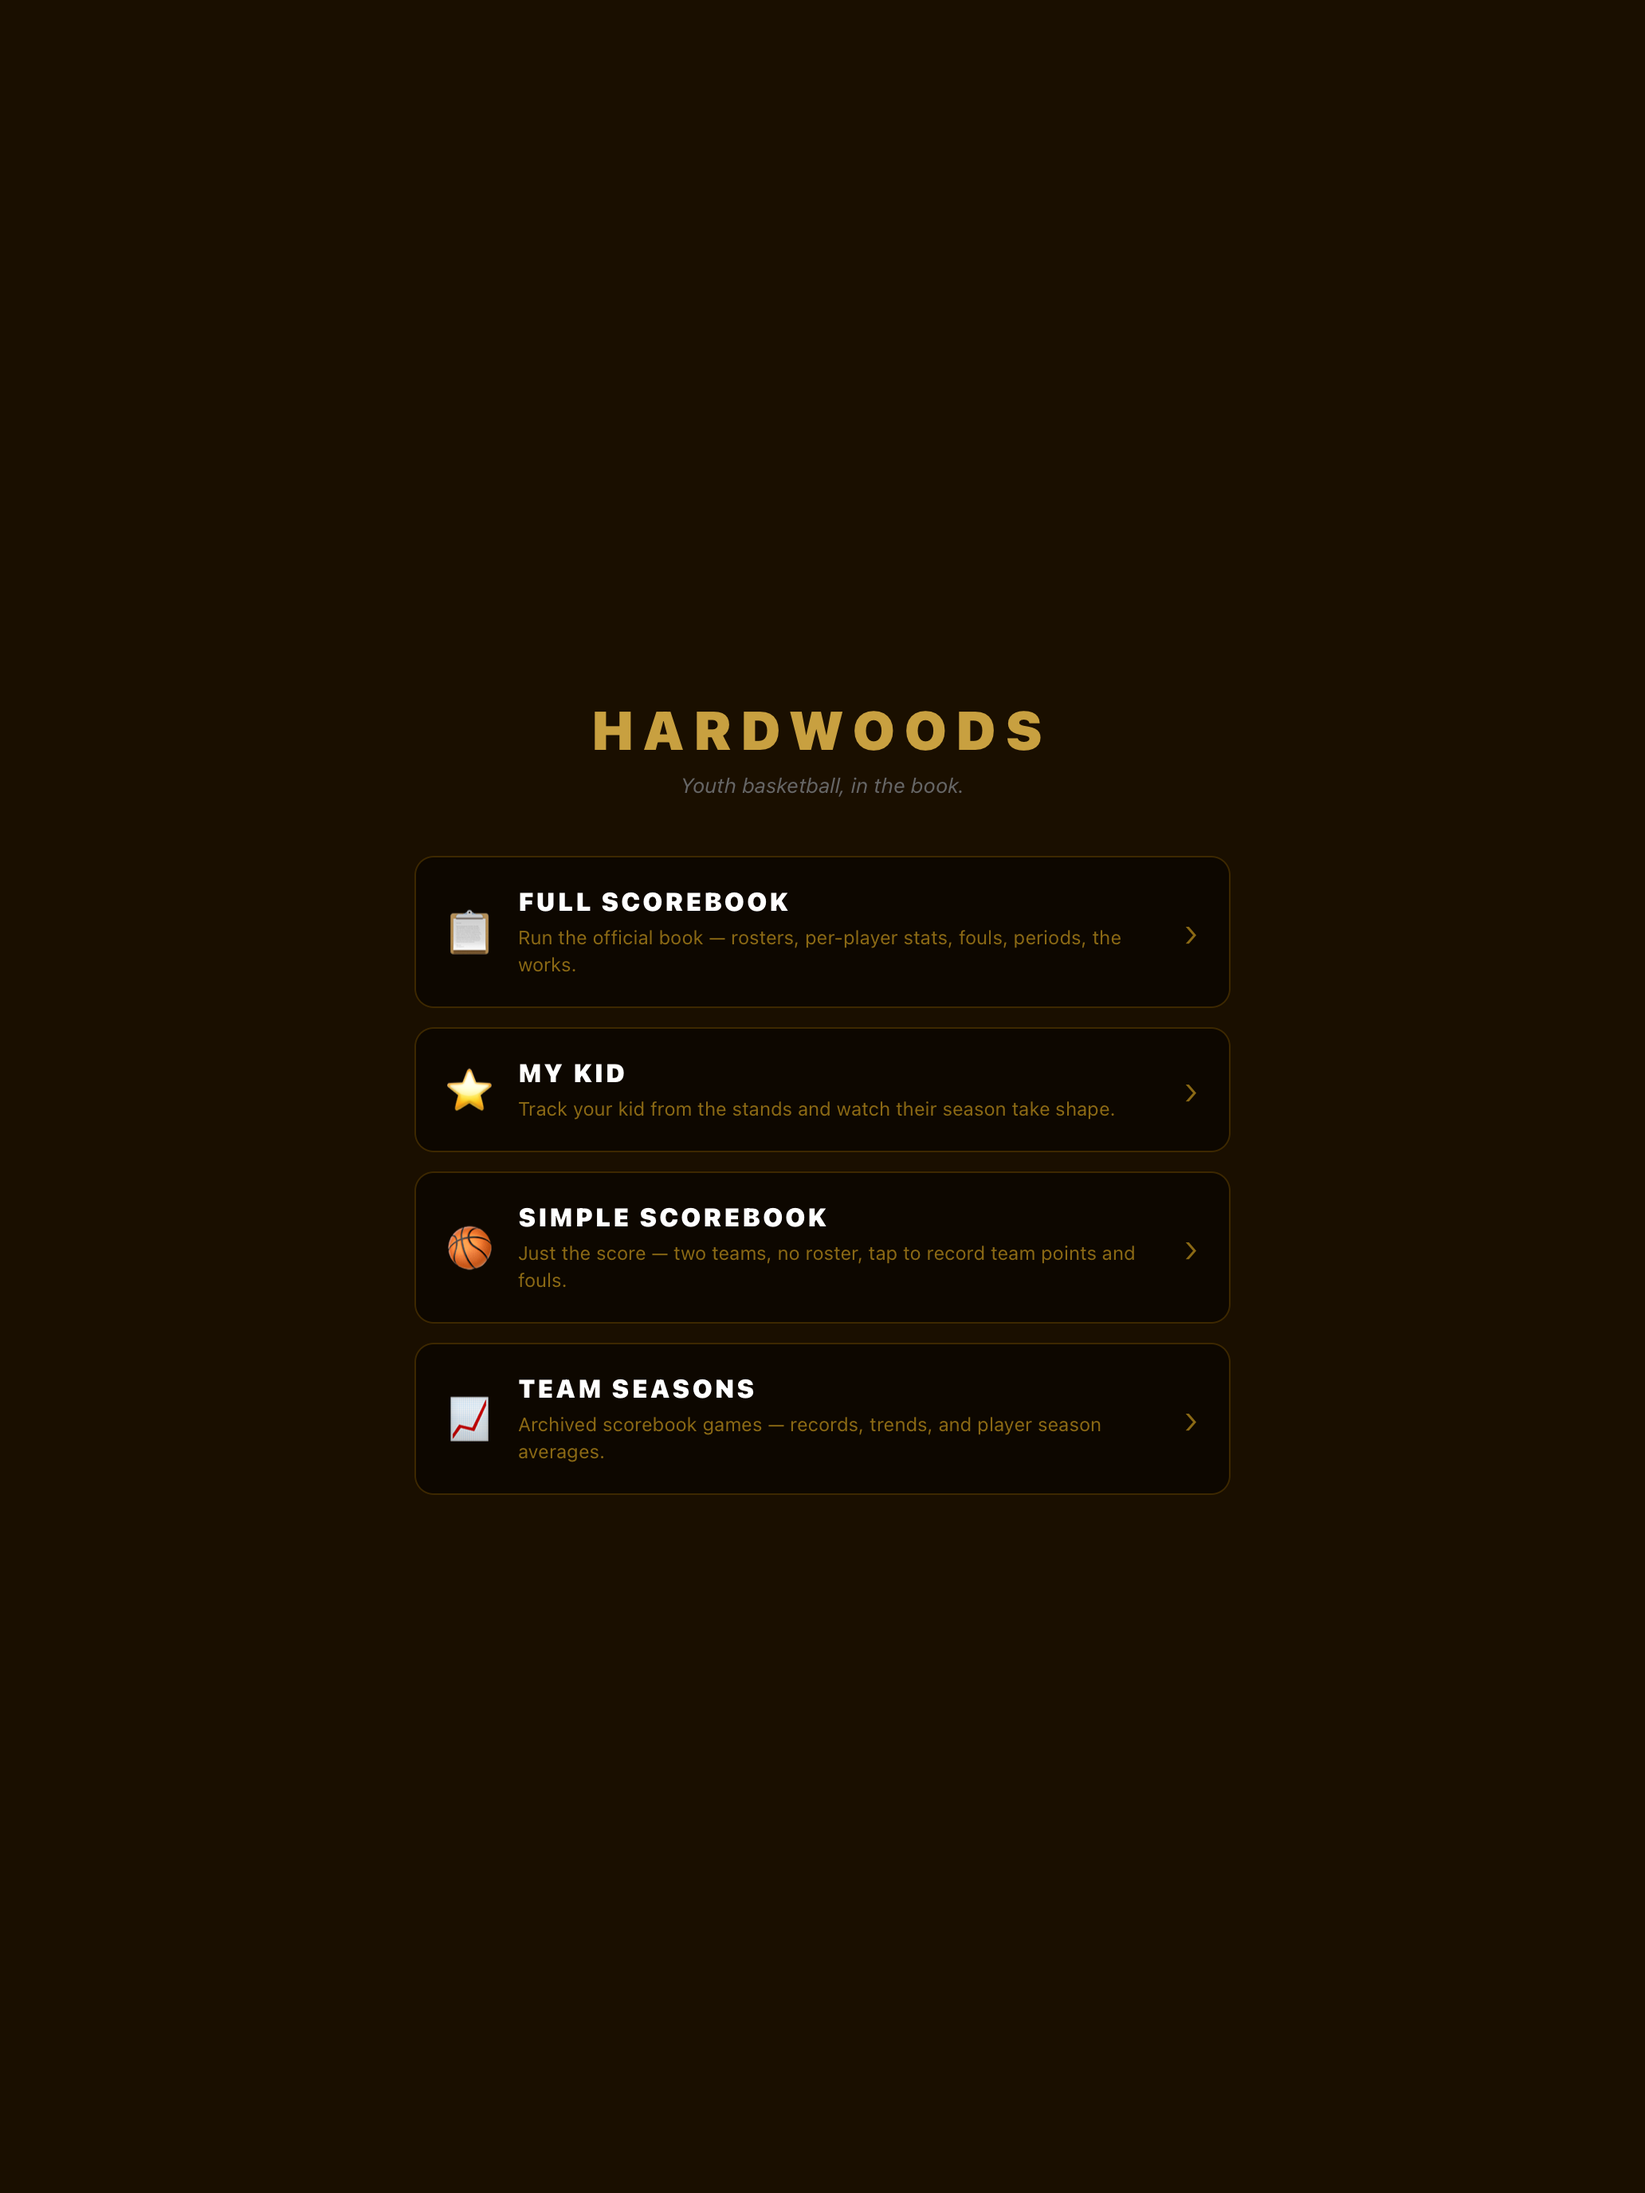
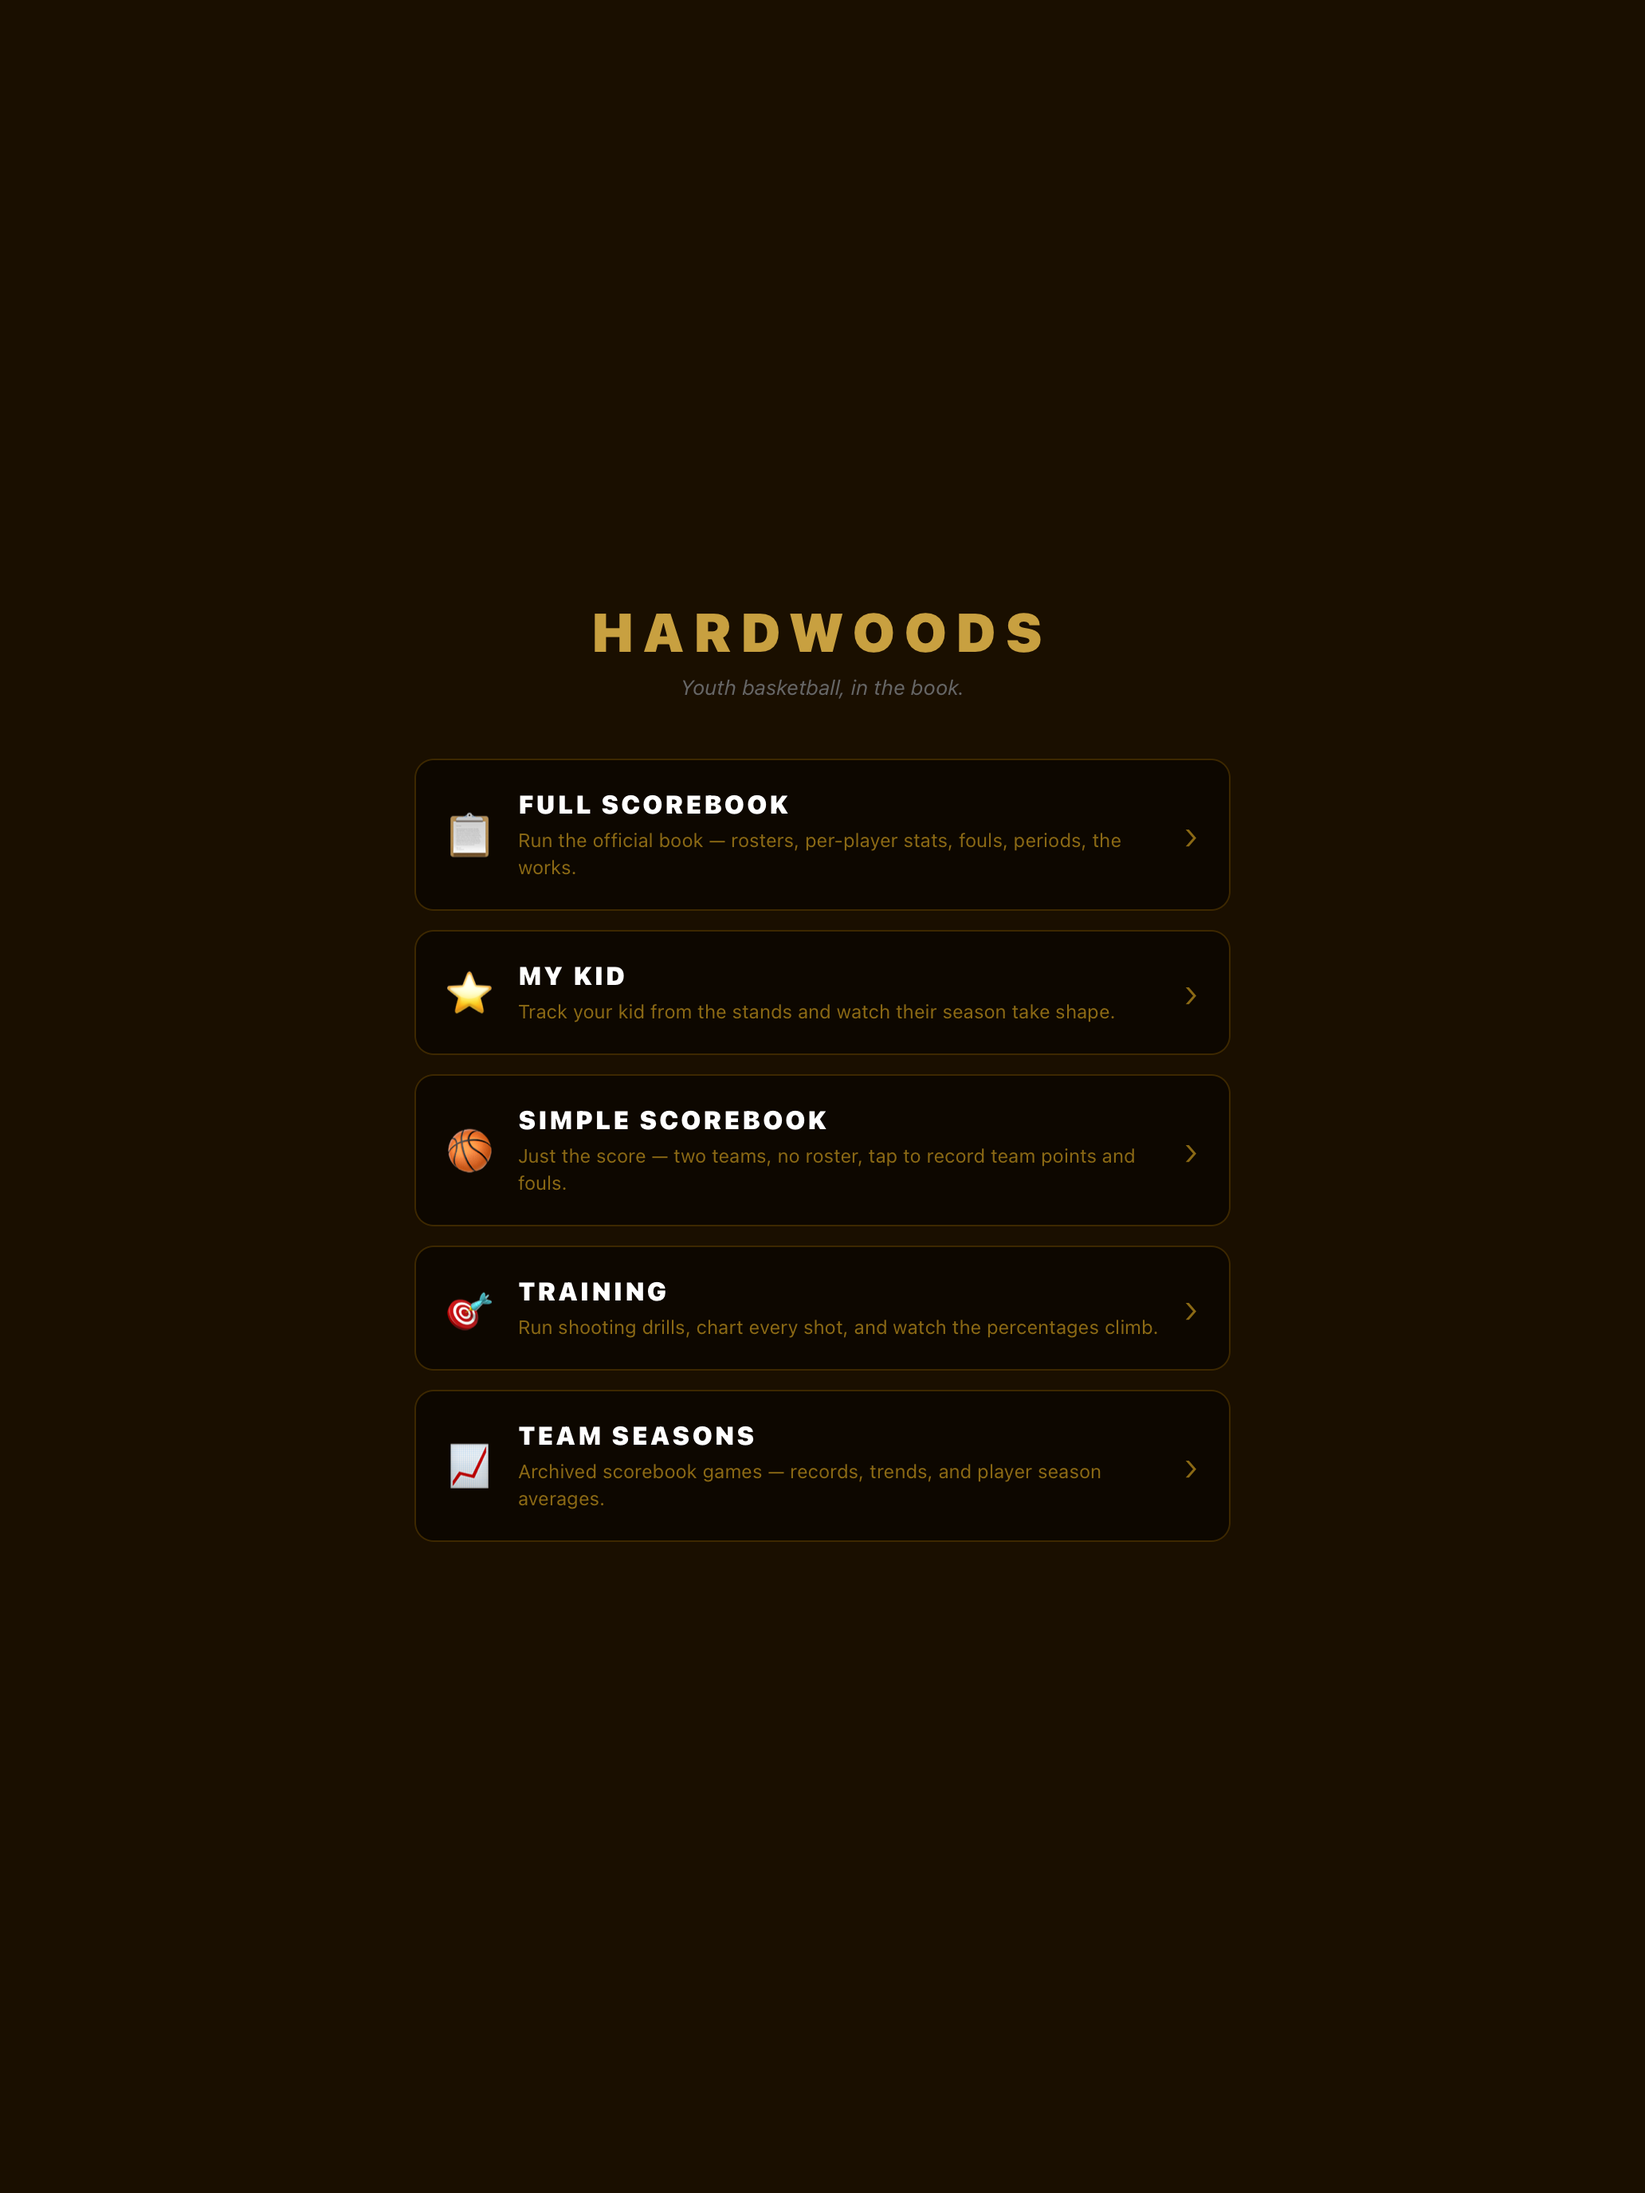
Update iPad landing screenshot for five modes
The iPad frame still showed four modes and read "Four ways to score" —
a factual error in the listing now that Training ships.

Changed region(s): [[0.2481, 0.2812, 0.7132, 0.6875]]

diff --git a/tools/make-screenshots.py b/tools/make-screenshots.py
@@ -116,7 +116,7 @@ IPAD_SRC = os.path.join(SRC, "ipad")
 IPAD_FRAMES = [
     ("Watch them improve",    "Game-by-game trends, all season long",
      ["02-kidseason.png"],   "01-season.png"),
-    ("Four ways to score",    "Pick the one that fits your night",
+    ("Five ways to use it",   "Pick the one that fits your night",
      ["01-landing.png"],     "02-modes.png"),
     ("See how you stack up",  "Every archived game, by team",
      ["03-teamseasons.png"], "03-teams.png"),
